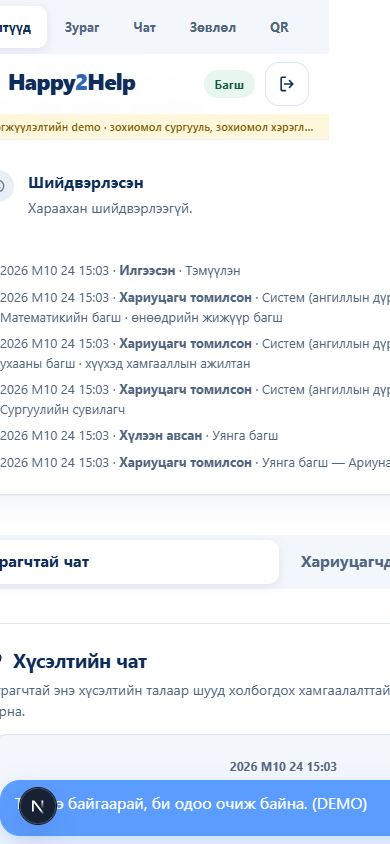
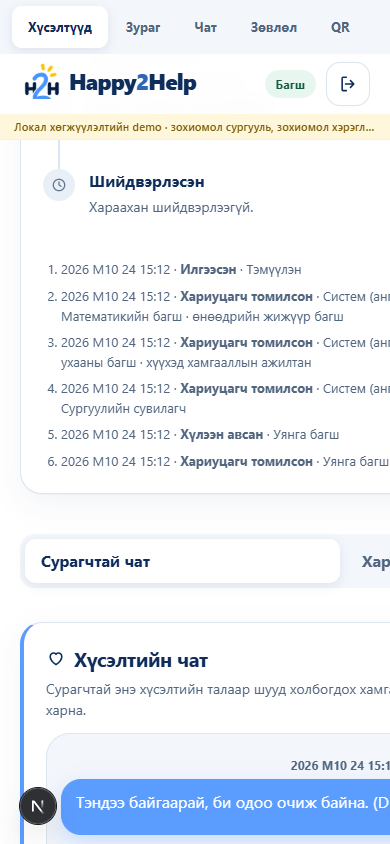
Open-source hygiene docs (contributing, security, conduct, architecture, AI model card, demo guide, provenance); 390px overflow fixes; film layout fixes

diff --git a/video/src/scenes/ProductScenes.tsx b/video/src/scenes/ProductScenes.tsx
@@ -139,18 +139,18 @@ export const ModulesScene: React.FC<{ dur: number }> = ({ dur }) => {
       <div style={{ position: "absolute", left: 80, top: 130, opacity: inP, transform: `translateX(${(1 - inP) * -60}px)` }}>
         <LaptopFrame src={FOOTAGE.staffMap} width={1000} cropTop={DESK_CROP} dim={idx === 1 ? 0 : 0.5} loopFrames={216} />
       </div>
-      <div style={{ position: "absolute", left: 1190, top: 80, opacity: inP, transform: `translateY(${(1 - inP) * 60}px)` }}>
+      <div style={{ position: "absolute", left: 1150, top: 90, opacity: inP, transform: `translateY(${(1 - inP) * 60}px)` }}>
         {idx < 2 ? (
-          <PhoneFrame src={FOOTAGE.councilCare} width={400} cropTop={PHONE_CROP} dim={idx === 1 ? 0.45 : 0} loopFrames={246} />
+          <PhoneFrame src={FOOTAGE.councilCare} width={370} cropTop={PHONE_CROP} dim={idx === 1 ? 0.45 : 0} loopFrames={246} />
         ) : (
-          <PhoneFrame src={FOOTAGE.patrol} width={400} cropTop={PHONE_CROP} loopFrames={114} />
+          <PhoneFrame src={FOOTAGE.patrol} width={370} cropTop={PHONE_CROP} loopFrames={114} />
         )}
       </div>
-      <div style={{ position: "absolute", left: 1620, top: 160, width: 260, opacity: o, transform: `translateY(${(1 - o) * 10}px)` }}>
+      <div style={{ position: "absolute", left: 1600, top: 170, width: 300, opacity: o, transform: `translateY(${(1 - o) * 10}px)` }}>
         <div style={{ fontFamily: theme.font, fontSize: 40, fontWeight: 800, color: theme.navy, lineHeight: 1.1 }}>{titles[idx]![0]}</div>
         <div style={{ marginTop: 12, fontFamily: theme.font, fontSize: 24, color: theme.ink, lineHeight: 1.35 }}>{titles[idx]![1]}</div>
       </div>
-      <Caption text={copy.modules.care[0] + " · " + copy.modules.care[1]} at={third - 60} until={third + 60} small x={1190} y={960} />
+      <Caption text={copy.modules.care[0] + " · " + copy.modules.care[1]} at={third - 60} until={third + 60} small x={80} y={960} />
       <Truth />
     </AbsoluteFill>
   );

diff --git a/web/features/happy2help/happy.css b/web/features/happy2help/happy.css
@@ -647,3 +647,21 @@ button.happy-critical-banner { cursor: pointer; }
   .happy-hero { grid-template-columns: minmax(0, 1fr) 40%; min-height: 360px; }
   .happy-hero__art { height: 300px; }
 }
+
+/* ---------- 390 px overflow fixes (teacher detail) ---------- */
+.happy-main { overflow-x: clip; }
+.happy-log li { flex-wrap: wrap; row-gap: 2px; overflow-wrap: anywhere; }
+.happy-log li strong { min-width: 0; }
+.happy-meta div, .happy-assignee, .happy-proposal__meta, .happy-chat-head div { min-width: 0; overflow-wrap: anywhere; }
+.happy-assignees { min-width: 0; }
+.happy-tabs--chat { max-width: 100%; }
+.happy-tabs--chat button { min-width: 0; white-space: normal; line-height: 1.2; }
+.happy-detail__heading h1 { flex-wrap: wrap; }
+@media (max-width: 767px) {
+  .happy-teacher-detail, .happy-detail { max-width: 100%; }
+  .happy-chat-head h1 { font-size: 20px; }
+  .happy-conv__top strong, .happy-conv__preview { overflow: hidden; text-overflow: ellipsis; }
+}
+
+.happy-teacher-detail__grid > * { min-width: 0; }
+.happy-teacher-detail__main > * { min-width: 0; }

diff --git a/video/src/scenes/OpeningScenes.tsx b/video/src/scenes/OpeningScenes.tsx
@@ -68,7 +68,7 @@ export const QuestionScene: React.FC<{ dur: number }> = ({ dur }) => {
     <AbsoluteFill style={{ background: theme.navyDeep, opacity: fade }}>
       <AbsoluteFill style={{ background: `radial-gradient(900px 600px at ${x}px ${y}px, rgba(91,156,255,${0.22 * glow}), transparent 70%)` }} />
       <AbsoluteFill style={{ alignItems: "center", justifyContent: "center", paddingBottom: 120 }}>
-        <KineticText text={copy.question} size={104} delay={14} stagger={6} maxWidth={1500} />
+        <KineticText text={copy.question} size={96} delay={14} stagger={6} maxWidth={1750} />
       </AbsoluteFill>
       <div style={{ position: "absolute", left: x - 22, top: y - 22, width: 44, height: 44, borderRadius: 22, background: theme.sky, boxShadow: `0 0 ${60 * glow}px ${30 * glow}px rgba(91,156,255,0.35)` }} />
     </AbsoluteFill>

diff --git a/docs/ARCHITECTURE.md b/docs/ARCHITECTURE.md
@@ -1,0 +1,40 @@
+# Architecture
+
+```
+┌──────────────────────────┐        ┌──────────────────────────────┐        ┌──────────────────────┐
+│  Phone / laptop browser  │  HTTPS │  web/  Next.js 15 (App Router)│  HTTP  │  api/  erxes plugin  │
+│  student · staff · MN UI │ ─────▶ │  BFF: /api/graphql allow-list │ ─────▶ │  startPlugin (SDK)   │
+│                          │ cookie │  HttpOnly session, identity   │ headers│  Federation 2 subgraph│
+└──────────────────────────┘        └──────────────────────────────┘        │  resolvers + ACL     │
+                                                                             └──────────┬───────────┘
+                                   dev-direct: BFF → plugin /graphql directly            │ Mongoose (tenant)
+                                   gateway:    BFF → erxes gateway → plugin              ▼
+                                                                             ┌──────────────────────┐
+                                                                             │ MongoDB happy2help_* │
+                                                                             └──────────────────────┘
+                                   async, after SOS commit ──▶ Gemma 4 (OpenRouter / Gemini API) ──▶ happy2help_ai_analyses
+                                   erxes Redis ◀── service discovery (erxes-service-happy2help, config, owner)
+```
+
+## Plugin (`api/`)
+- `src/main.ts` — `startPlugin` from `@erxes/api-shared@3.3.4`: `/graphql`, `/health`, gateway header decoding, Redis registration.
+- `src/graphql/schema.ts` — SDL + resolvers, all `happy2help*`. `markResolvers(skipPermission)` then Happy2Help's own ACL.
+- `src/modules/access.ts` — actor = tenant (subdomain) + membership (school, role, extra roles) + case scope.
+- `src/modules/incidents` — SOS model, severity/routing, assignment, status transitions, action log.
+- `src/modules/chat` — one engine: DIRECT, INCIDENT, CARE, STAFF_INTERNAL rooms; members; messages (idempotent).
+- `src/modules/council`, `patrol`, `care`, `school` (zones, floor plan, QR HMAC), `ai` (Gemma 4 pipeline, retry sweeper).
+- `src/seed/demo.ts` — fictional school, rooms, people (idempotent).
+
+## Web (`web/`)
+- `lib/server/operations.ts` — the only GraphQL documents the browser can trigger (by name).
+- `lib/server/erxes.ts` — upstream call; dev-direct sets `user`/`cpuser` headers, gateway forwards erxes tokens.
+- `features/happy2help/*` — screens (student, teacher), chat, floor map, QR scanner, Council/Patrol/Care, AI card.
+
+## Data (MongoDB, all `happy2help_` prefixed)
+schools, zones, memberships, incidents, ai_analyses, conversations, conversation_members, messages,
+council_proposals, council_votes, patrol_shifts, patrol_observations, care_requests. Unique indexes enforce
+idempotent SOS, one vote per student, one room per key, idempotent messages.
+
+## What is verified vs not
+Verified locally: plugin process, Redis registration, offline supergraph composition, all flows (48 E2E, 15 smoke),
+one live Gemma 4 reply. Not verified: a running erxes gateway composing the plugin, Core UI remote, hosted tenant install.

diff --git a/docs/AI_MODEL.md b/docs/AI_MODEL.md
@@ -1,0 +1,22 @@
+# Happy AI — model card (what the AI really does)
+
+| | |
+|---|---|
+| Model | **Gemma 4** (open-weight, Google DeepMind). Default `google/gemma-4-26b-a4b-it`; fallback chain `google/gemma-4-31b-it:free`, `google/gemma-4-26b-a4b-it:free`, `google/gemma-4-26b-a4b-it`. Gemini API id `gemma-4-26b-a4b-it` also supported. |
+| Provider | OpenRouter (`/api/v1/chat/completions`, OpenAI-compatible) or Google Gemini API (`generateContent`). Key is server-side only. |
+| Weights vs terms | Gemma 4 weights are open under Google's Gemma Terms of Use; we use hosted inference, we do not redistribute weights or fine-tune. |
+| Prompt | `api/src/modules/ai/prompt.ts`, version `happy-ai-gemma4-v1`. Student text is wrapped in explicit delimiters and declared data, not instructions. |
+| Output | Strict Zod schema (`api/src/modules/ai/schema.ts`): categorySuggestion (incl. UNCLEAR), urgency, confidence, summaryMn ≤400 chars, riskIndicatorsMn ≤5, teacherActionsMn 1–5, uncertaintyNoteMn. Anything else → FAILED, never shown as AI. |
+| When | Only **after** the SOS is committed; never awaited by the mutation; 25 s timeout; per-process call cap; retry sweeper for QUOTA/TIMEOUT/NETWORK (max 6). |
+| Who sees it | Teachers in case scope only, labelled «AI-ийн санал · Эцсийн шийдвэрийг багш гаргана». Students never. |
+| Never | Acknowledge, assign, close, escalate, diagnose, attribute blame, or trigger emergency dispatch. |
+| Eval set | `api/eval/incidents.mn.json` — 10 fictional Mongolian cases incl. a prompt-injection case; `pnpm ai:eval`. |
+
+## Live verification (2026-10-24)
+`docs/ai-proof/latest.json` — 15:01 local, `google/gemma-4-31b-it:free`, 12.2 s, schema-valid, fictional bullying case.
+Observed limitation in that reply: one action item contains Greek letters inside a Mongolian word. Capacity was
+intermittent all afternoon (free tier 429, paid 402 without credits); incidents then show FAILED · QUOTA and retry.
+
+## Safety stance
+Human-in-the-loop by construction. Only fictional data was sent in this hackathon. A school deployment would require
+consent, a data-processing agreement with the inference provider, and a review of the Gemma Terms of Use.

diff --git a/docs/DEMO.md b/docs/DEMO.md
@@ -1,0 +1,24 @@
+# Demo guide (fictional school «Нарлаг Ирээдүй сургууль (DEMO)»)
+
+Start: `pnpm install && node tools/dev-stack.mjs` → http://localhost:3100 (one-tap fictional personas in dev-direct mode).
+
+| Persona | Role | Use for |
+|---|---|---|
+| Тэмүүлэн · 8Б | student, patrol member | SOS, status, chat |
+| Номин · 7б, Ану · 11а | students, council members | Council proposals and votes |
+| Төгөлдөр · 10а | patrol member | Patrol check-in |
+| Уянга багш | duty teacher (oversight) | inbox, acknowledge, assign |
+| Бат багш | safeguarding lead, council moderator | approve proposals, staff room |
+| Ганбаатар багш | patrol supervisor | create shifts |
+| Мөнхзул эмч / Ариунаа / Сарнай | nurse / social worker / psychologist | Care requests, assignment |
+| Ихбаяр, Сараа багш | second school «Гэрэлт Зам» | isolation checks |
+
+## 90-second journey
+1. Student: Нүүр → Зураг → 2-р давхар → «2-р давхрын коридор» → «Энэ байршлаас SOS илгээх» → «Яаралтай аюул / Зодоон» → «Одоо аюулд байна» → илгээх.
+2. Teacher (Уянга): red critical queue → open → map highlight → «Хүлээн авснаа батлах» → assign Ариунаа → reply in «Сурагчтай чат» → note in «Хариуцагчдын чат».
+3. Student: refresh → «Багш хүлээн авсан», responders, teacher's message.
+4. Council (Номин): propose → Бат approves → Ану/Тэмүүлэн vote (duplicate rejected).
+5. Patrol (Ганбаатар → Төгөлдөр): shift → QR / manual check-in → supervisor sees it.
+6. Care (Тэмүүлэн → Мөнхзул эмч): request → nurse replies and acknowledges.
+
+Film: `video/out/Happy2Help-Launch-Demo.mp4` (real recordings, fictional data). Screenshots: `artifacts/screenshots/`.

diff --git a/docs/HACKDAY_CHANGES.md b/docs/HACKDAY_CHANGES.md
@@ -1,0 +1,23 @@
+# Hack Day provenance — what was built on 24 October 2026
+
+**Built during the Hack Day (this repository, first commit 24 Oct):**
+- The erxes plugin (`api/`): generated with `@erxes/create-plugin` on the day, then all modules — incidents with severity/
+  routing/assignment/status log, chat engine (DIRECT / INCIDENT / CARE / STAFF_INTERNAL), Council, Patrol, Care, zones
+  with floor plan and QR HMAC, Happy AI pipeline with retry sweeper, seed, unit + E2E tests.
+- The web app (`web/`): Next.js app, BFF, session, all student and staff screens, floor map, QR scanner, chat UI.
+- Tools (`tools/`): no-Docker dev stack, dev Redis stub, smoke/screenshot/footage/music scripts, federation check.
+- Film (`video/`): Remotion project, original procedural soundtrack, real footage of the app.
+- Documentation, license, tests.
+
+**Consulted for reference only (not copied):** the team's earlier preparation repository `BeBecpp/Happy2Help`
+(21 Oct) — architecture notes, the QR deep-link idea (HMAC-signed zone id), the "one conversation engine" idea.
+Code was re-written for this repository.
+
+**Reused assets owned by the team:** brand images in `web/public/brand/` (white kitten with blue scarf, wordmark, icons).
+
+**Third-party:** `@erxes/api-shared` and `@erxes/create-plugin` (AGPL-3.0, erxes Inc.), Next.js, Mongoose, Zod,
+html5-qrcode, qrcode, mongodb-memory-server, Remotion (local install), Playwright-core (recording), ffmpeg (encoding).
+Gemma 4 weights by Google DeepMind via hosted inference. Font: system "Segoe UI" / Noto Sans stack.
+
+**Astra handoff:** `astra-frontend/` holds a design handoff received during the day; it was used as a visual reference and
+partially ported, never run as-is.

diff --git a/CONTRIBUTING.md b/CONTRIBUTING.md
@@ -1,0 +1,29 @@
+# Contributing to Happy2Help
+
+Thank you for helping schools listen to students. Happy2Help is an AGPL-3.0 erxes plugin plus a Next.js app.
+
+## Ground rules
+- **Fictional data only** in issues, screenshots, tests and seeds. Never paste a real student's report, name or school.
+- Safety first: changes must keep SOS submission independent of AI, chat and network extras.
+- Authorization lives in the plugin resolvers (`api/src/modules/access.ts` and per-module services). UI guards are not security.
+
+## Development
+```bash
+pnpm install
+node tools/dev-stack.mjs          # mongod (memory server, persisted in .data/), Redis stub, plugin, seed, web on :3100
+pnpm --filter happy2help_api check
+pnpm --filter happy2help_api test          # unit
+pnpm --filter happy2help_api test:e2e      # real plugin process + mongod
+pnpm --filter happy2help_web exec tsc --noEmit
+node tools/smoke-bff.mjs                   # live journey through the running web app
+```
+
+## Pull requests
+1. Open an issue describing the problem (use the bug / feature templates in your PR description if none exist).
+2. Keep PRs focused; add or update an E2E assertion for any authorization change.
+3. Run the commands above and paste the results in the PR.
+4. Do not commit `.env*`, API keys or recordings of real people.
+
+## Code style
+TypeScript strict, named exports, Mongolian Cyrillic for all user-facing copy, `happy2help*` prefix for every GraphQL
+type and operation (the erxes supergraph is shared).

diff --git a/SECURITY.md b/SECURITY.md
@@ -1,0 +1,18 @@
+# Security policy
+
+Happy2Help handles reports from children. Please treat any vulnerability as sensitive.
+
+## Reporting
+Email the maintainers (see the GitHub profile of `BeBecpp`) with a private description. Do **not** open a public issue
+for a vulnerability, and never include a real student's data in a report. We acknowledge within 72 hours during the
+pilot phase.
+
+## Scope and design notes
+- Every GraphQL resolver re-derives tenant (erxes subdomain), school membership and roles server-side; nothing from the
+  browser is trusted as authority.
+- Students can never read staff-only rooms, staff action logs or AI output; Council and Patrol never see case data.
+- QR codes carry only an HMAC-signed zone id (no identity, no school id).
+- The web BFF exposes an allow-list of operations and stores sessions in an HttpOnly cookie.
+- **dev-direct mode** (one-tap fictional personas) is for local development only and must never be deployed publicly;
+  use `H2H_MODE=gateway` behind a real erxes gateway.
+- AI keys stay server-side; the model receives only fictional data in this prototype and its output is advisory.

diff --git a/CODE_OF_CONDUCT.md b/CODE_OF_CONDUCT.md
@@ -1,0 +1,13 @@
+# Code of Conduct
+
+Happy2Help exists so that every student is heard. We ask the same of our community.
+
+- Be kind, patient and respectful. Assume good intent; disagree about ideas, not people.
+- No harassment, discrimination or demeaning language of any kind.
+- Protect children: never share real student data, and treat safeguarding topics with care and seriousness.
+- Give credit, cite sources, and be honest about what works and what does not.
+
+Maintainers may remove, edit or reject contributions and comments that do not follow this code. Report concerns to the
+maintainers privately (see SECURITY.md for contact).
+
+Adapted in spirit from the Contributor Covenant.
